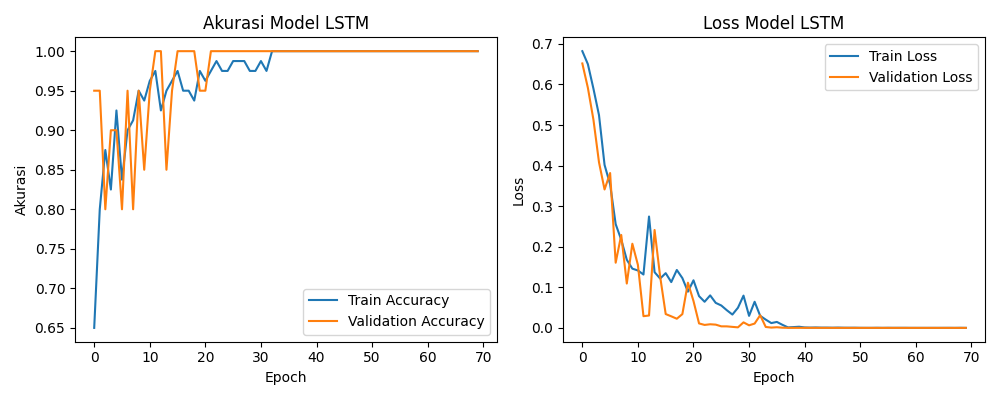
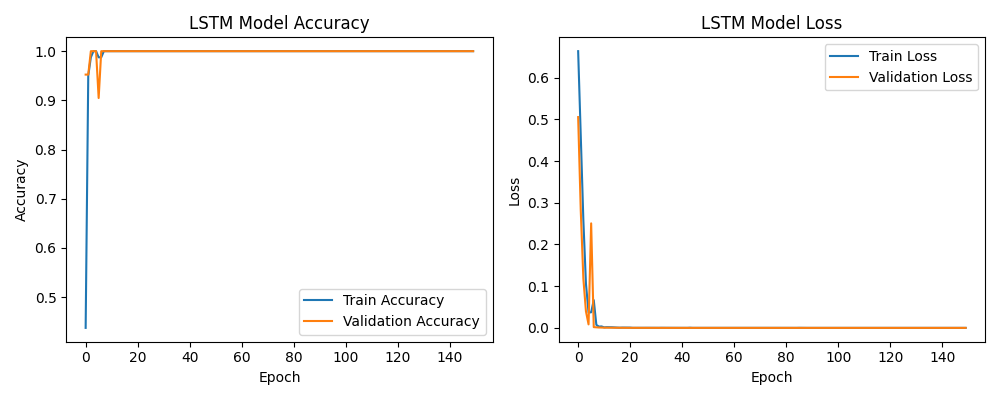
Fix: Add signed finger crossing features (4) to resolve U vs R misclassification

diff --git a/scripts/04_train_static.py b/scripts/04_train_static.py
@@ -46,22 +46,42 @@ def plot_history(history):
 
 def normalize_landmarks(features):
     """
-    Coordinate Normalization and Feature Engineering (Pairwise Distances).
-    1. Subtracts the wrist coordinates (origin) from all other hand landmarks.
-    2. Computes the Euclidean distance between every pair of landmarks (210 pairwise distances).
-    This significantly boosts classification accuracy for highly similar gestures (e.g., U vs R).
+    Coordinate Normalization and Feature Engineering.
+    Extracts a rich feature set to maximize discriminability between visually similar gestures:
+
+    1. Normalized Coordinates (63 features):
+       Subtracts wrist position (landmark 0) so all coordinates are wrist-relative.
+
+    2. Pairwise Euclidean Distances (210 features):
+       Captures the overall shape and proportional geometry of the hand.
+
+    3. Scale Invariance:
+       Divides all features by the max absolute coordinate so the model is
+       fully invariant to how close or far the hand is from the camera.
+
+    4. Signed Finger Crossing Features (4 features):
+       Computes the SIGNED (directional) difference in X and Z coordinates
+       between the index fingertip (landmark 8) and middle fingertip (landmark 12).
+       This directly encodes whether the fingers are CROSSED (R) or PARALLEL (U),
+       which pure Euclidean distance cannot capture reliably.
     """
     import math
     augmented_features = []
     
+    # MediaPipe landmark indices for relevant fingertips
+    IDX_INDEX_TIP  = 8   # Index finger tip
+    IDX_MIDDLE_TIP = 12  # Middle finger tip
+    IDX_INDEX_PIP  = 7   # Index finger PIP (proximal interphalangeal) joint
+    IDX_MIDDLE_PIP = 11  # Middle finger PIP joint
+    
     for i in range(len(features)):
         row = features[i]
-        # Wrist coordinates (first 3 elements)
+        # Wrist coordinates (first 3 elements - landmark 0)
         wx, wy, wz = row[0], row[1], row[2]
         
         # 1. Normalize Coordinates (63 features)
         norm_coords = []
-        points = [] # Store points for distance calculation
+        points = [] # Store wrist-relative (x, y, z) for each of 21 landmarks
         for j in range(0, 63, 3):
             nx = row[j] - wx
             ny = row[j+1] - wy
@@ -86,8 +106,22 @@ def normalize_landmarks(features):
         if max_val > 0:
             norm_coords = [x / max_val for x in norm_coords]
             distances = [d / max_val for d in distances]
+            
+        # 4. Signed Finger Crossing Features (4 features)
+        # For U vs R discrimination: index and middle fingertips cross in R but not in U.
+        # SIGNED differences (not absolute) directly encode the direction of crossing.
+        # - cross_x_tip  : positive if index tip is to the right of middle tip
+        # - cross_z_tip  : positive if index tip is further from camera than middle tip
+        # - cross_x_pip  : same but at the PIP joints (helps capture mid-finger crossing)
+        # - cross_z_pip  : same z difference at PIP joints
+        scale = max_val if max_val > 0 else 1.0
+        cross_x_tip = (points[IDX_INDEX_TIP][0] - points[IDX_MIDDLE_TIP][0]) / scale
+        cross_z_tip = (points[IDX_INDEX_TIP][2] - points[IDX_MIDDLE_TIP][2]) / scale
+        cross_x_pip = (points[IDX_INDEX_PIP][0] - points[IDX_MIDDLE_PIP][0]) / scale
+        cross_z_pip = (points[IDX_INDEX_PIP][2] - points[IDX_MIDDLE_PIP][2]) / scale
+        crossing_features = [cross_x_tip, cross_z_tip, cross_x_pip, cross_z_pip]
                 
-        augmented_features.append(norm_coords + distances)
+        augmented_features.append(norm_coords + distances + crossing_features)
         
     return np.array(augmented_features, dtype=np.float32)
 

diff --git a/app.py b/app.py
@@ -44,14 +44,27 @@ dynamic_display_timer = 0 # Frame countdown for how long the dynamic prediction 
 
 def extract_and_normalize_landmarks(hand_landmarks):
     """
-    Extracts 21 3D landmarks and normalizes them by subtracting the wrist coordinates.
-    Computes pairwise Euclidean distances for the static model's feature engineering.
+    Extracts 21 3D landmarks and applies the same feature engineering pipeline
+    used during training to ensure inference is fully consistent.
     
-    Returns 2 arrays:
-    1. norm_coords (63 elements): Baseline features for the dynamic model (LSTM).
-    2. augmented_features (273 elements): Enriched features for the static model (Dense).
+    Feature set (277 features total for the static model):
+    1. norm_coords       (63 features): Wrist-relative normalized coordinates for LSTM.
+    2. pairwise distances(210 features): Euclidean distances between all landmark pairs.
+    3. Scale Invariance              : All features divided by max absolute coordinate.
+    4. Signed crossing features (4 features): Signed X/Z differences between index and
+       middle fingertips/PIP joints to directly discriminate 'U' (parallel) vs 'R' (crossed).
+    
+    Returns:
+        norm_coords_arr    (np.ndarray, 63): Features for the dynamic LSTM model.
+        augmented_features (np.ndarray, 277): Features for the static Dense model.
     """
     import math
+    
+    # MediaPipe landmark indices for finger crossing detection
+    IDX_INDEX_TIP  = 8   # Index finger tip
+    IDX_MIDDLE_TIP = 12  # Middle finger tip
+    IDX_INDEX_PIP  = 7   # Index finger PIP (proximal interphalangeal) joint
+    IDX_MIDDLE_PIP = 11  # Middle finger PIP joint
     
     # Extract the wrist coordinates (landmark index 0)
     wx = hand_landmarks.landmark[0].x
@@ -81,10 +94,21 @@ def extract_and_normalize_landmarks(hand_landmarks):
     if max_val > 0:
         norm_coords = [x / max_val for x in norm_coords]
         distances = [d / max_val for d in distances]
-            
-    augmented_features = norm_coords + distances
+    
+    # Signed Finger Crossing Features (4 features)
+    # Positive cross_x_tip means index tip is to the RIGHT of middle tip
+    # In 'R', fingers are crossed so the sign of these values will differ from 'U'
+    scale = max_val if max_val > 0 else 1.0
+    cross_x_tip = (points[IDX_INDEX_TIP][0] - points[IDX_MIDDLE_TIP][0]) / scale
+    cross_z_tip = (points[IDX_INDEX_TIP][2] - points[IDX_MIDDLE_TIP][2]) / scale
+    cross_x_pip = (points[IDX_INDEX_PIP][0] - points[IDX_MIDDLE_PIP][0]) / scale
+    cross_z_pip = (points[IDX_INDEX_PIP][2] - points[IDX_MIDDLE_PIP][2]) / scale
+    crossing_features = [cross_x_tip, cross_z_tip, cross_x_pip, cross_z_pip]
+        
+    augmented_features = norm_coords + distances + crossing_features
     
     return np.array(norm_coords), np.array(augmented_features)
+
 
 def main():
     global is_recording_dynamic, dynamic_frames, dynamic_result_text, dynamic_display_timer